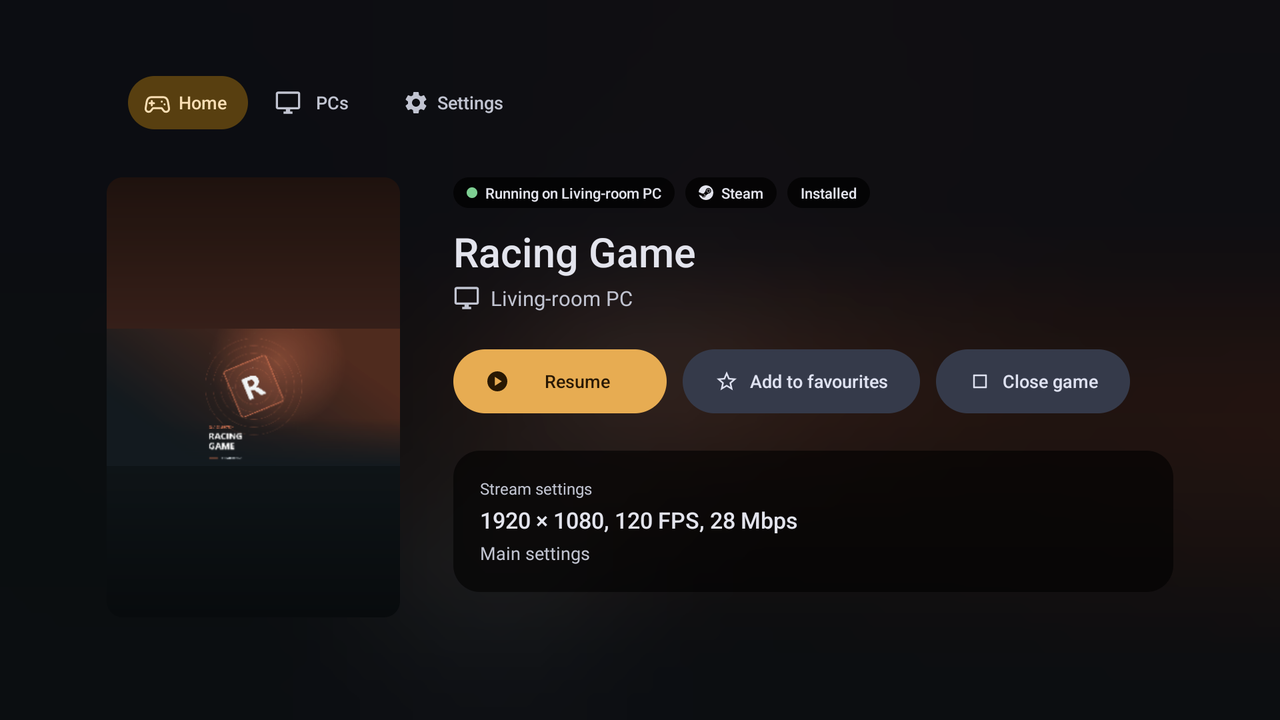
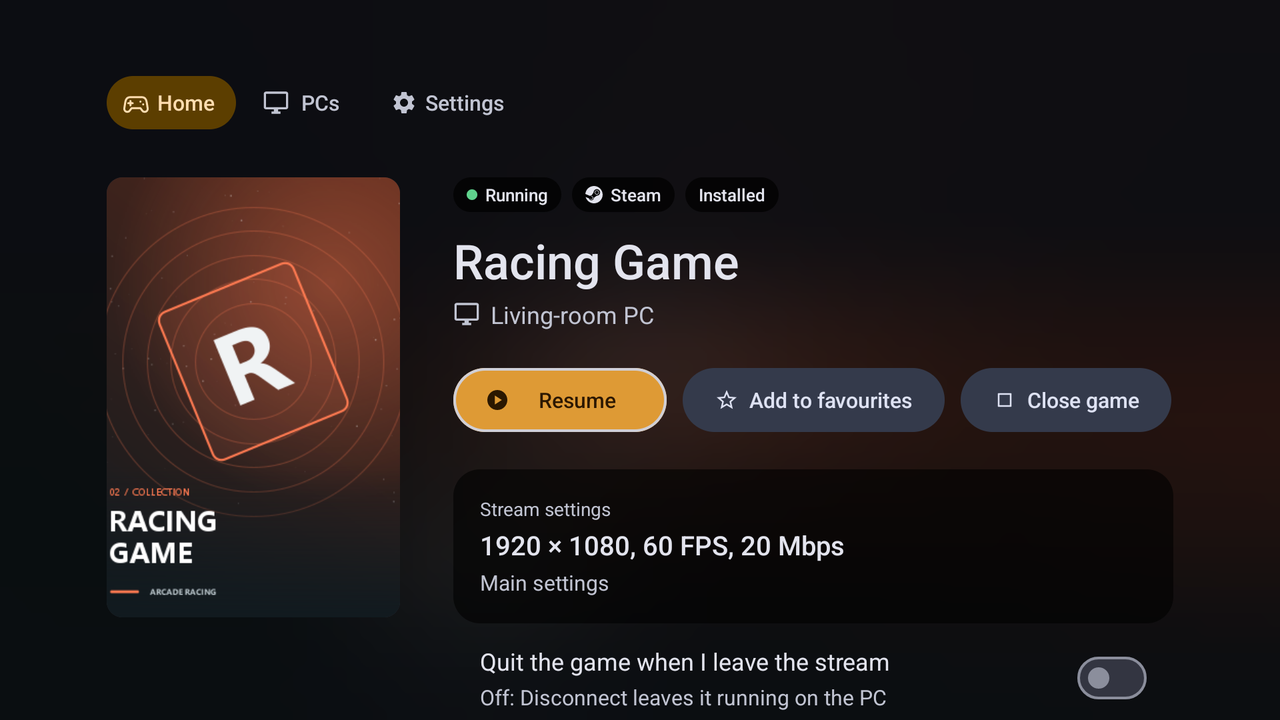
docs(nightjar): retake the TV and handheld README shots with the polish
TV Home, a store row, All games and the game page come from the TV
emulator; handheld Home, the Statistics overlay, the PC keyboard and the
Radeon panel of the stream menu from the same 1920x1080 screen in the
handheld layout, all in demo mode and scaled to 1280x720 as before.
The game page alt text names its quit-on-leave switch and the demo
stream settings it now shows.

diff --git a/docs/console.md b/docs/console.md
@@ -26,7 +26,7 @@ When the host lists a game as not installed, **Play** is unavailable and the pag
 On a TV the page keeps the backdrop that Home showed for the game. A row of chips above the title shows the state (**Running** or **Suspended**), the store (Steam, Epic, GOG, Microsoft), whether the game is installed, and HDR support. A screen reader reads the row as one item.
 
 <p align="center">
-  <img src="assets/shots/tv-game-page.png" width="720" alt="A game's page on a TV: chips for Running, Steam and Installed, the PC name Living-room PC under the title, the Resume, Add to favourites and Close game buttons, and the stream settings 1920 x 1080, 120 FPS, 28 Mbps from the main settings (demo library)">
+  <img src="assets/shots/tv-game-page.png" width="720" alt="A game's page on a TV: chips for Running, Steam and Installed, the PC name Living-room PC under the title, the Resume, Add to favourites and Close game buttons, the stream settings 1920 x 1080, 60 FPS, 20 Mbps from the main settings, and the Quit the game when I leave the stream switch (demo library)">
 </p>
 
 ## On a TV

diff --git a/README.md b/README.md
@@ -69,7 +69,7 @@ No accounts, advertising or analytics, and nothing sent to its developers. Video
 <table>
 <tr>
 <td width="50%" valign="top">
-  <img src="docs/assets/shots/tv-game-page.png" alt="A game's page on a TV: Racing Game running on Living-room PC, with Resume, Add to favourites, Close game and the stream settings it will use (demo library)"><br>
+  <img src="docs/assets/shots/tv-game-page.png" alt="A game's page on a TV: Racing Game running on Living-room PC, with Resume, Add to favourites, Close game, the stream settings it will use and the switch to quit the game on leaving (demo library)"><br>
   <sub><b>A page for every game.</b> Its store, the PC it runs on, whether it is running, and the exact settings the stream will use.</sub>
 </td>
 <td width="50%" valign="top">
